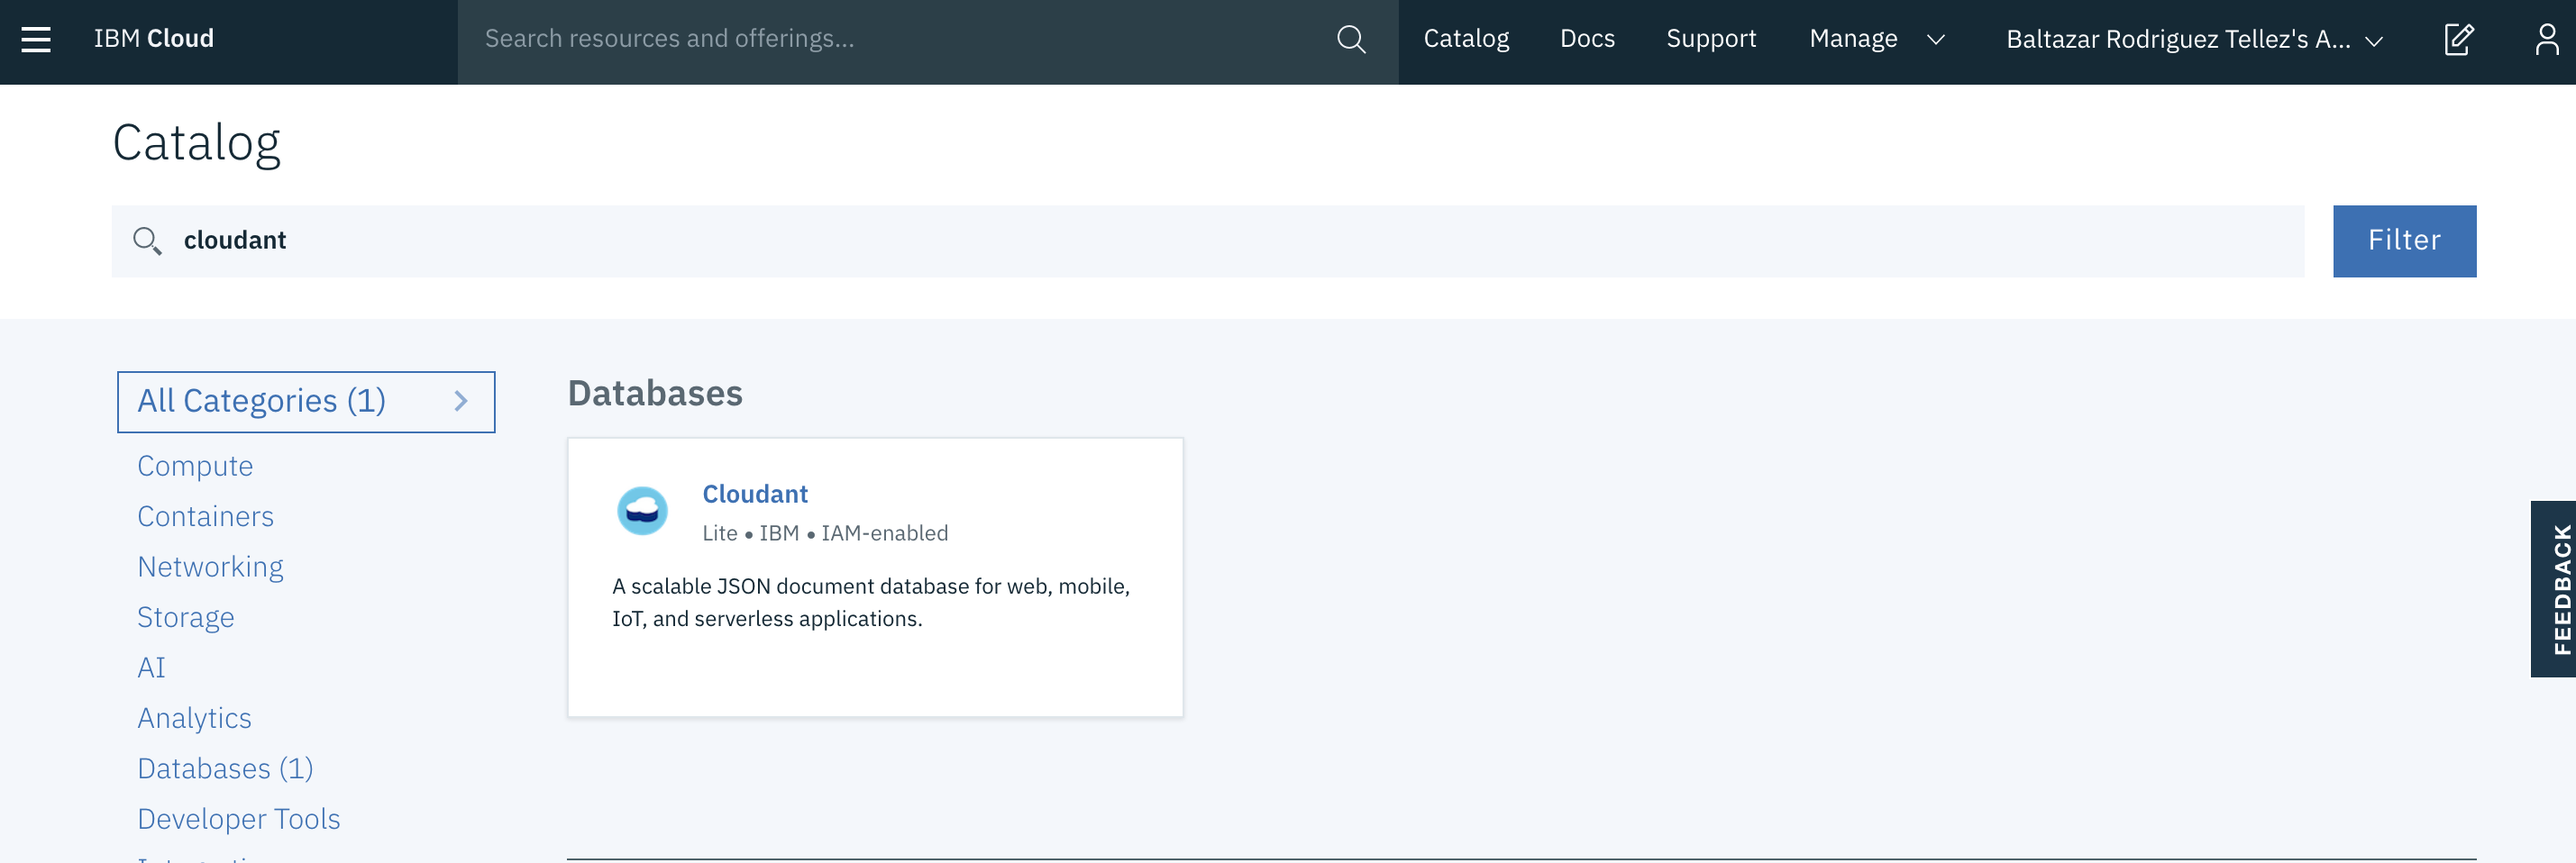
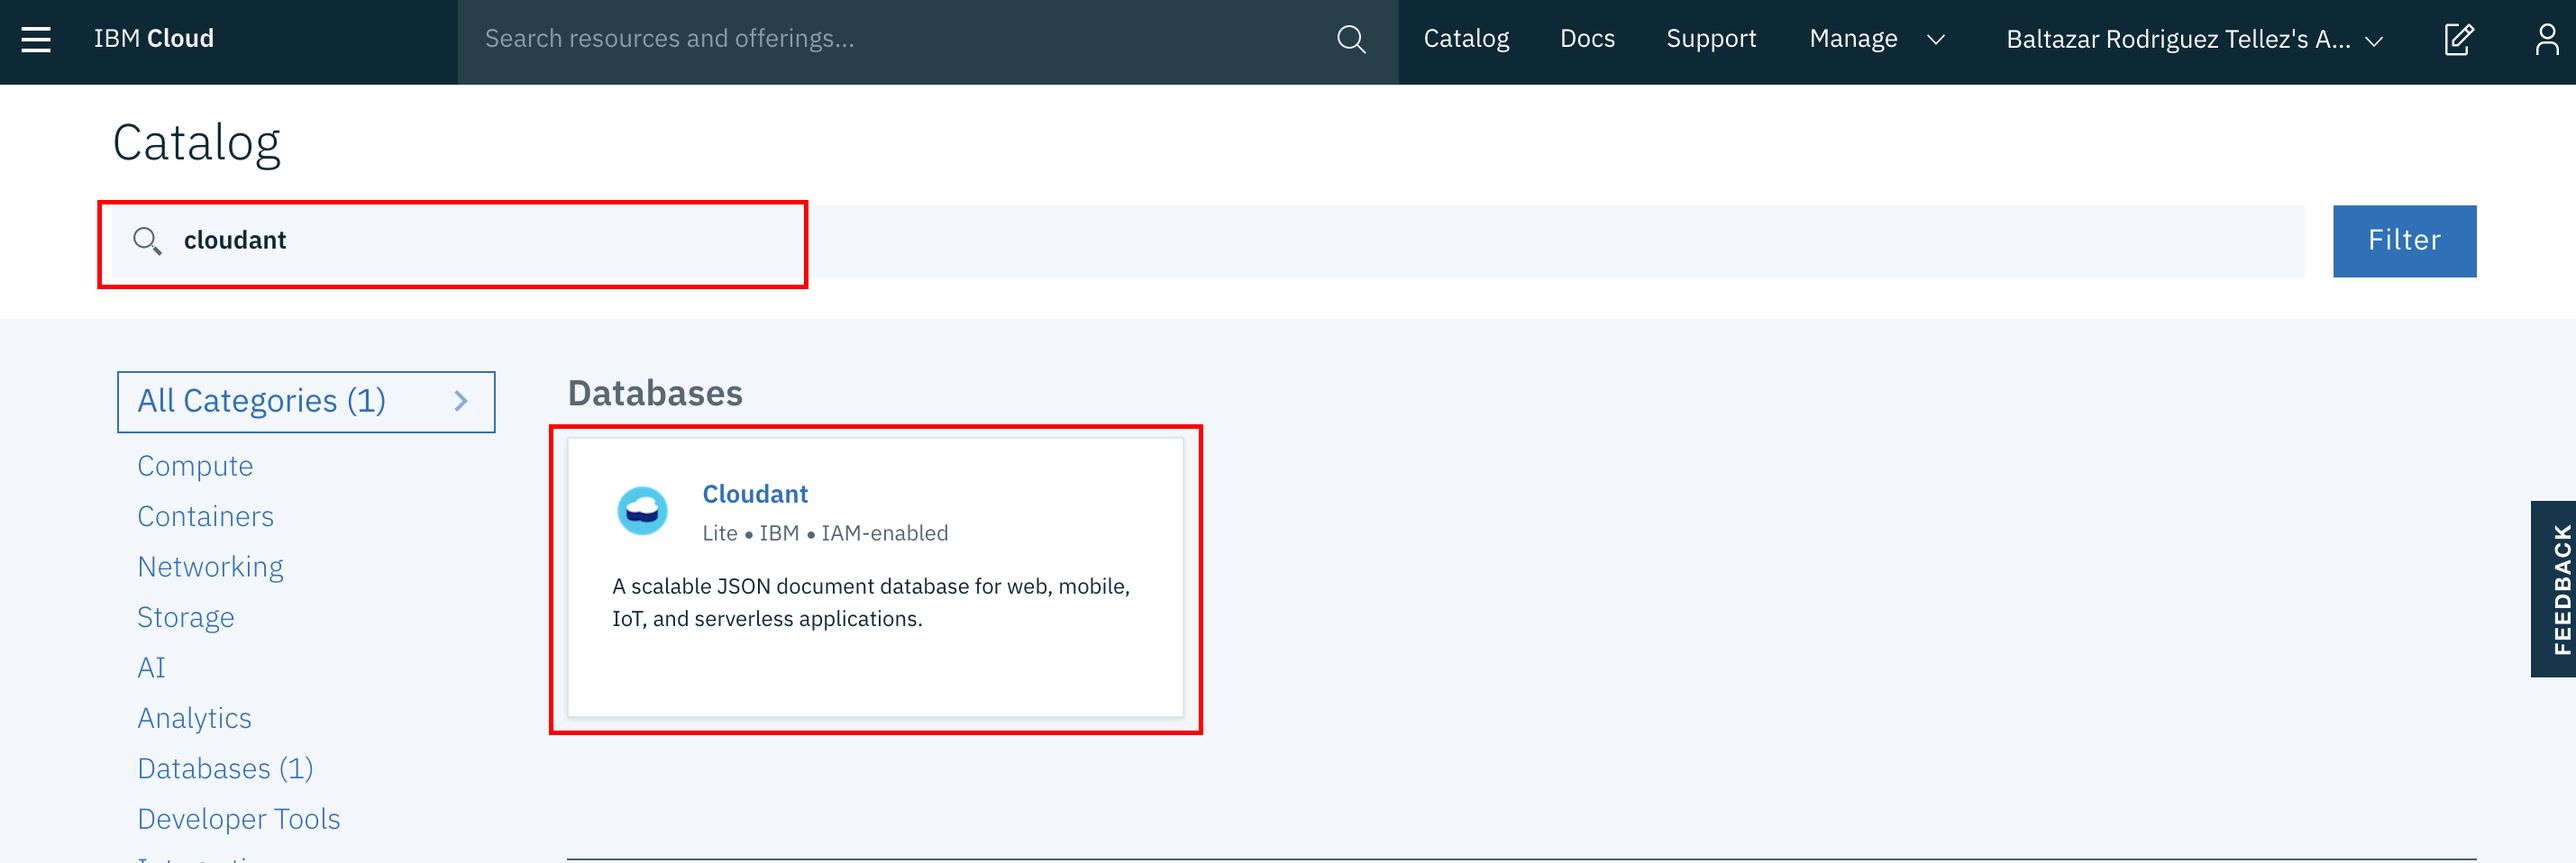
Creación del servicio de cloudant puntos 1 al 3

diff --git a/Cloudant/TUTORIAL.md b/Cloudant/TUTORIAL.md
@@ -2,3 +2,6 @@
 ## Introducción
 ¿Qué es Cloudant? Cloudant es una base de datos documental que almacena la información en documentos json, lo cual lo hace una solución ideal para almacenar objetos sin necesidad de utilizar un mecanismo de mapeo relacional (__ORM__)
 ## Creación del Servicio
+1. Entramos a el ![IBM Cloud](https://cloud.ibm.com) y nos firmamos. Una vez dentro del dashboard, seleccionamos la opción de catálogo ![Dashboard](./0001.png)
+2. Dentro del catálogo debemos buscar "cloudant" dentro del campo del filtro de servicios y seleccionamos el servicio dando click sobre el icono ![Filtrando Cloudant](./0002.png)
+3. Al entrar a la pantalla de configuración del servicio de cloudant, seleccionamos como método de autenticación "Legacy credentials and IAM". Acto seguido, damos click en el botón de crear ![Creando el Servicio](./0003.png)
